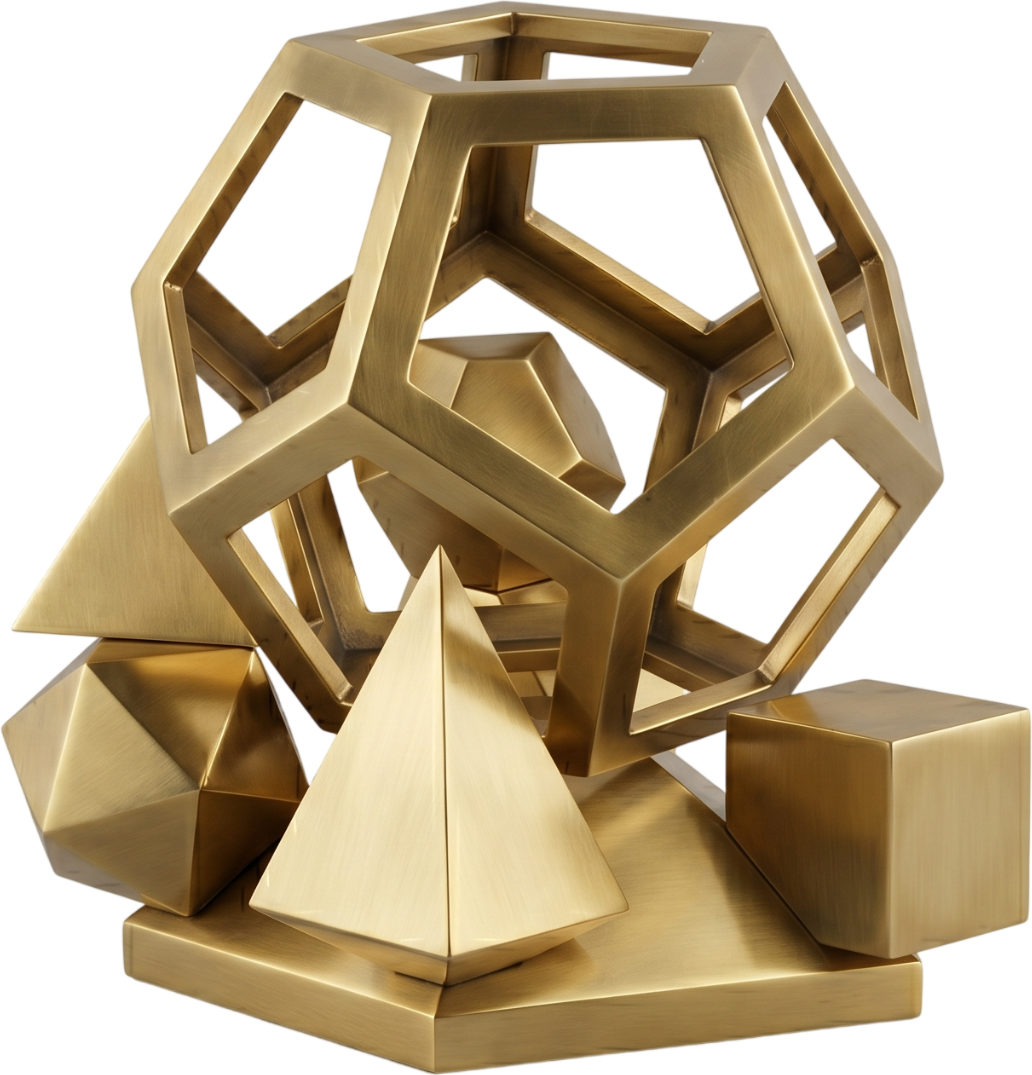
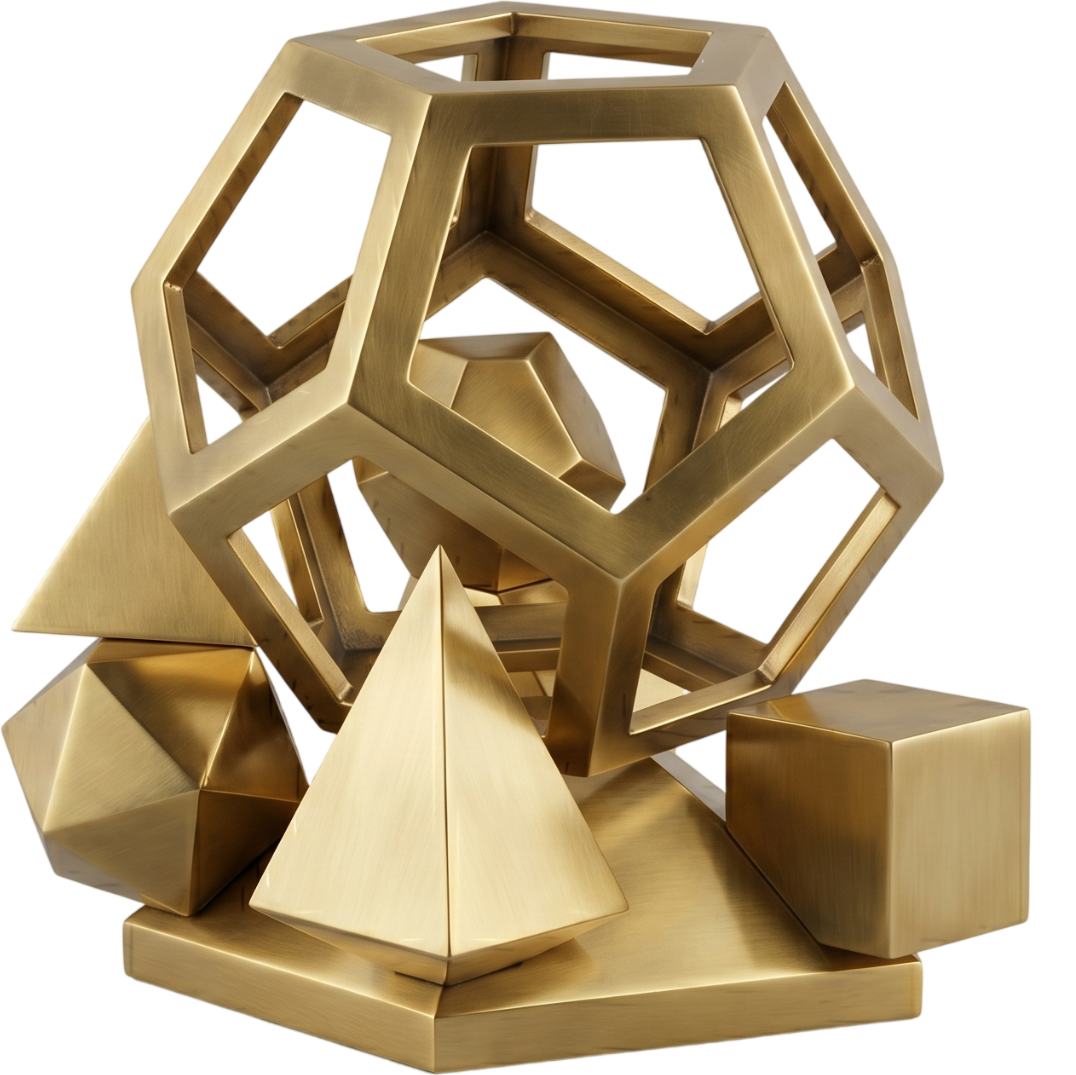
feat: add ShopByCategory component and category asset images

diff --git a/components/customer/ShopByCategory.tsx b/components/customer/ShopByCategory.tsx
@@ -64,8 +64,8 @@ export default function ShopByCategory() {
         </Link>
       </div>
 
-      {/* 7-column category grid with unconstrained rising subjects over Royal Blue Arches */}
-      <div className="grid grid-cols-7 gap-3.5 lg:gap-5 items-end">
+      {/* 7-column category grid — squeezed closer together and sized up slightly */}
+      <div className="grid grid-cols-7 gap-3 sm:gap-4 lg:gap-6 items-end max-w-[1060px] lg:max-w-[1140px] mx-auto">
         {CATEGORIES.map((cat) => (
           <Link
             key={cat.name}
@@ -73,23 +73,25 @@ export default function ShopByCategory() {
             className="group flex flex-col items-center cursor-pointer text-center"
           >
             {/* Visual Stage: unclipped top so subjects naturally rise above the arch */}
-            <div className="relative w-full h-[146px] lg:h-[158px] flex items-end justify-center overflow-visible">
-              {/* 1. Arched dome backdrop — sits at the bottom behind the subject */}
-              <div className="absolute bottom-0 w-[100px] h-[106px] lg:w-[110px] lg:h-[116px] rounded-t-full rounded-b-2xl bg-gradient-to-b from-[#3B82F6] via-[#1D60E8] to-[#0F47A6] shadow-[0_8px_20px_rgba(29,78,216,0.22)] transition-all duration-300 group-hover:scale-105 group-hover:shadow-[0_14px_30px_rgba(29,78,216,0.36)]" />
+            <div className="relative w-full h-[162px] lg:h-[174px] flex items-end justify-center overflow-visible">
+              {/* 1. Arched dome backdrop — solid soft ice blue with curved bottom two corners */}
+              <div
+                className="absolute bottom-0 w-[114px] h-[118px] lg:w-[124px] lg:h-[128px] rounded-t-full rounded-b-[30px] lg:rounded-b-[34px] bg-[#EAF2FF] border border-[#D0E2FA] shadow-[0_4px_16px_rgba(26,111,212,0.08)] transition-all duration-300 group-hover:scale-105 group-hover:bg-[#DFEDFD] group-hover:border-[#BBD8F8] group-hover:shadow-[0_8px_24px_rgba(26,111,212,0.14)]"
+              />
 
-              {/* 2. Rising subject image — rises 30px–35px ABOVE the blue arch! */}
+              {/* 2. Rising subject image — generously sized up and rising ~40px ABOVE the blue arch */}
               <div className="relative z-10 w-full h-full flex items-end justify-center pb-0 transition-transform duration-300 group-hover:-translate-y-1.5 group-hover:scale-105">
                 <img
                   src={cat.image}
                   alt={cat.name}
-                  className="max-h-[142px] lg:max-h-[154px] w-auto max-w-full object-contain object-bottom drop-shadow-[0_6px_10px_rgba(0,0,0,0.25)]"
+                  className="max-h-[156px] lg:max-h-[168px] w-auto max-w-full object-contain object-bottom drop-shadow-[0_6px_12px_rgba(15,23,42,0.16)]"
                   loading="lazy"
                 />
               </div>
             </div>
 
-            {/* Category Name */}
-            <span className="text-[14px] lg:text-[14.5px] font-semibold text-[#1A1A2E] group-hover:text-[#1A6FD4] transition-colors mt-3 text-center leading-snug">
+            {/* Category Name — matching product card title style (e.g. Slim Fit Chinos) */}
+            <span className="font-medium text-[14px] md:text-[15px] text-[#1A1A2E] mt-3 text-center leading-snug whitespace-nowrap">
               {cat.name}
             </span>
           </Link>
